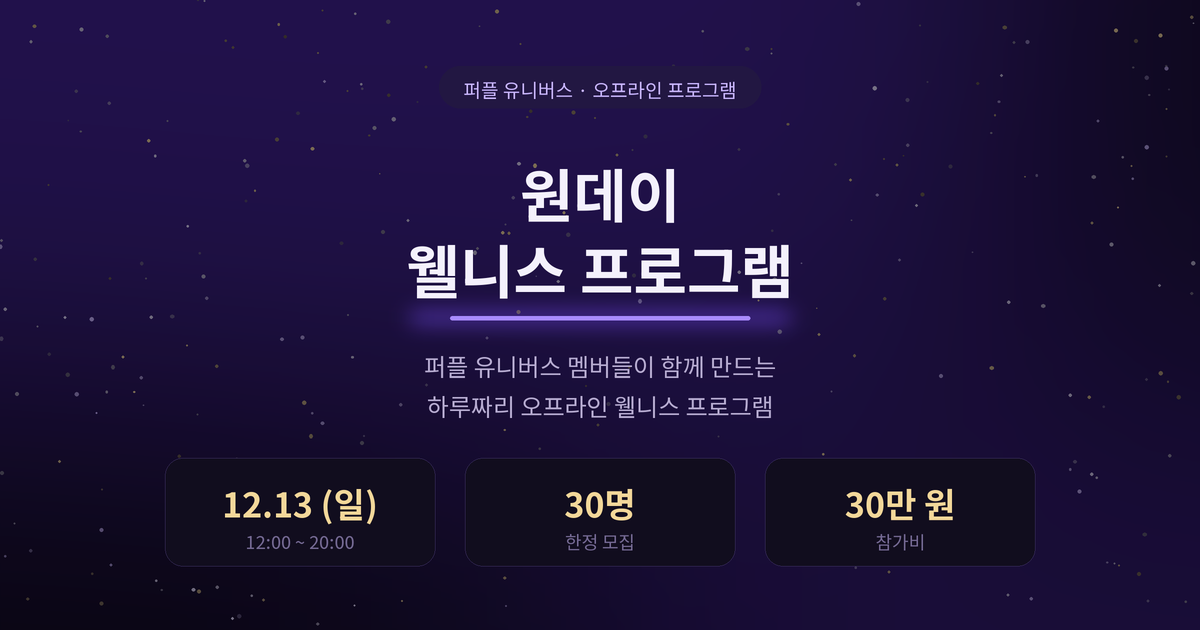
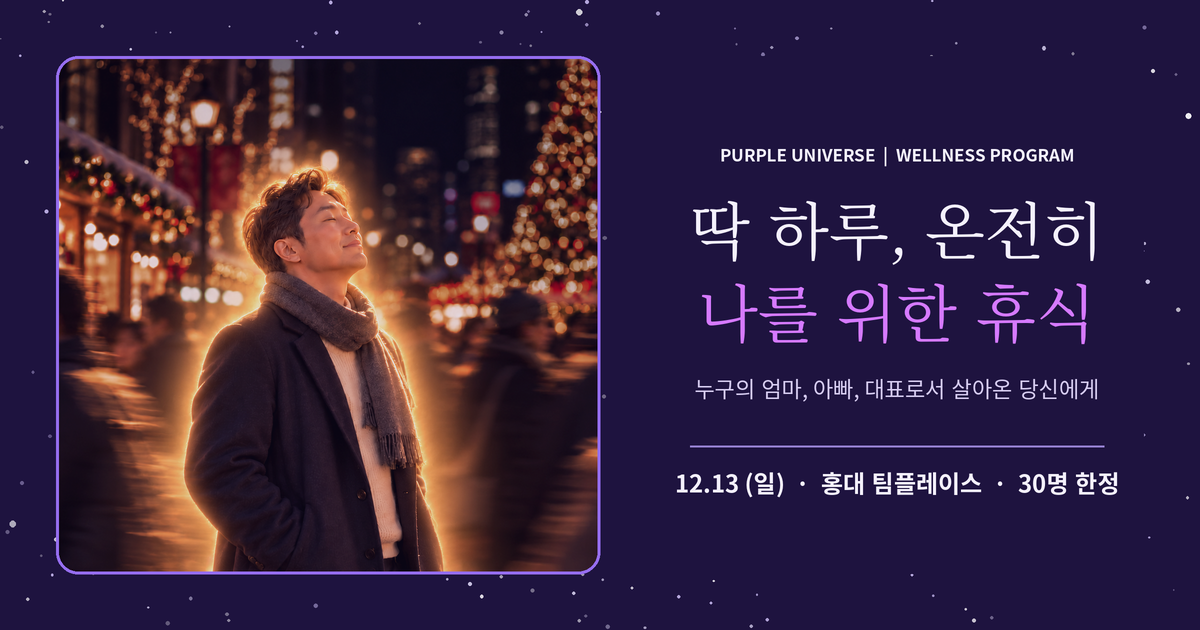
프로그램 공유 이미지(og-program.png)를 인트로 표지 디자인으로 교체 (?v=2)

diff --git a/program.html b/program.html
@@ -12,13 +12,13 @@
 <meta property="og:title" content="프로그램 — 퍼플 유니버스">
 <meta property="og:description" content="원데이 웰니스 프로그램 — 12월 13일(일) 12:00~20:00 · 30명 한정 · 참가비 30만 원">
 <meta property="og:url" content="https://purpleuniverse.net/program">
-<meta property="og:image" content="https://purpleuniverse.net/og-program.png?v=1">
+<meta property="og:image" content="https://purpleuniverse.net/og-program.png?v=2">
 <meta property="og:image:width" content="1200">
 <meta property="og:image:height" content="630">
 <meta property="og:image:alt" content="원데이 웰니스 프로그램 — 퍼플 유니버스">
 <meta name="twitter:card" content="summary_large_image">
 <meta name="twitter:title" content="프로그램 — 퍼플 유니버스">
-<meta name="twitter:image" content="https://purpleuniverse.net/og-program.png?v=1">
+<meta name="twitter:image" content="https://purpleuniverse.net/og-program.png?v=2">
 <link rel="canonical" href="https://purpleuniverse.net/program">
 <link rel="preconnect" href="https://fonts.googleapis.com">
 <link rel="preconnect" href="https://fonts.gstatic.com" crossorigin>
